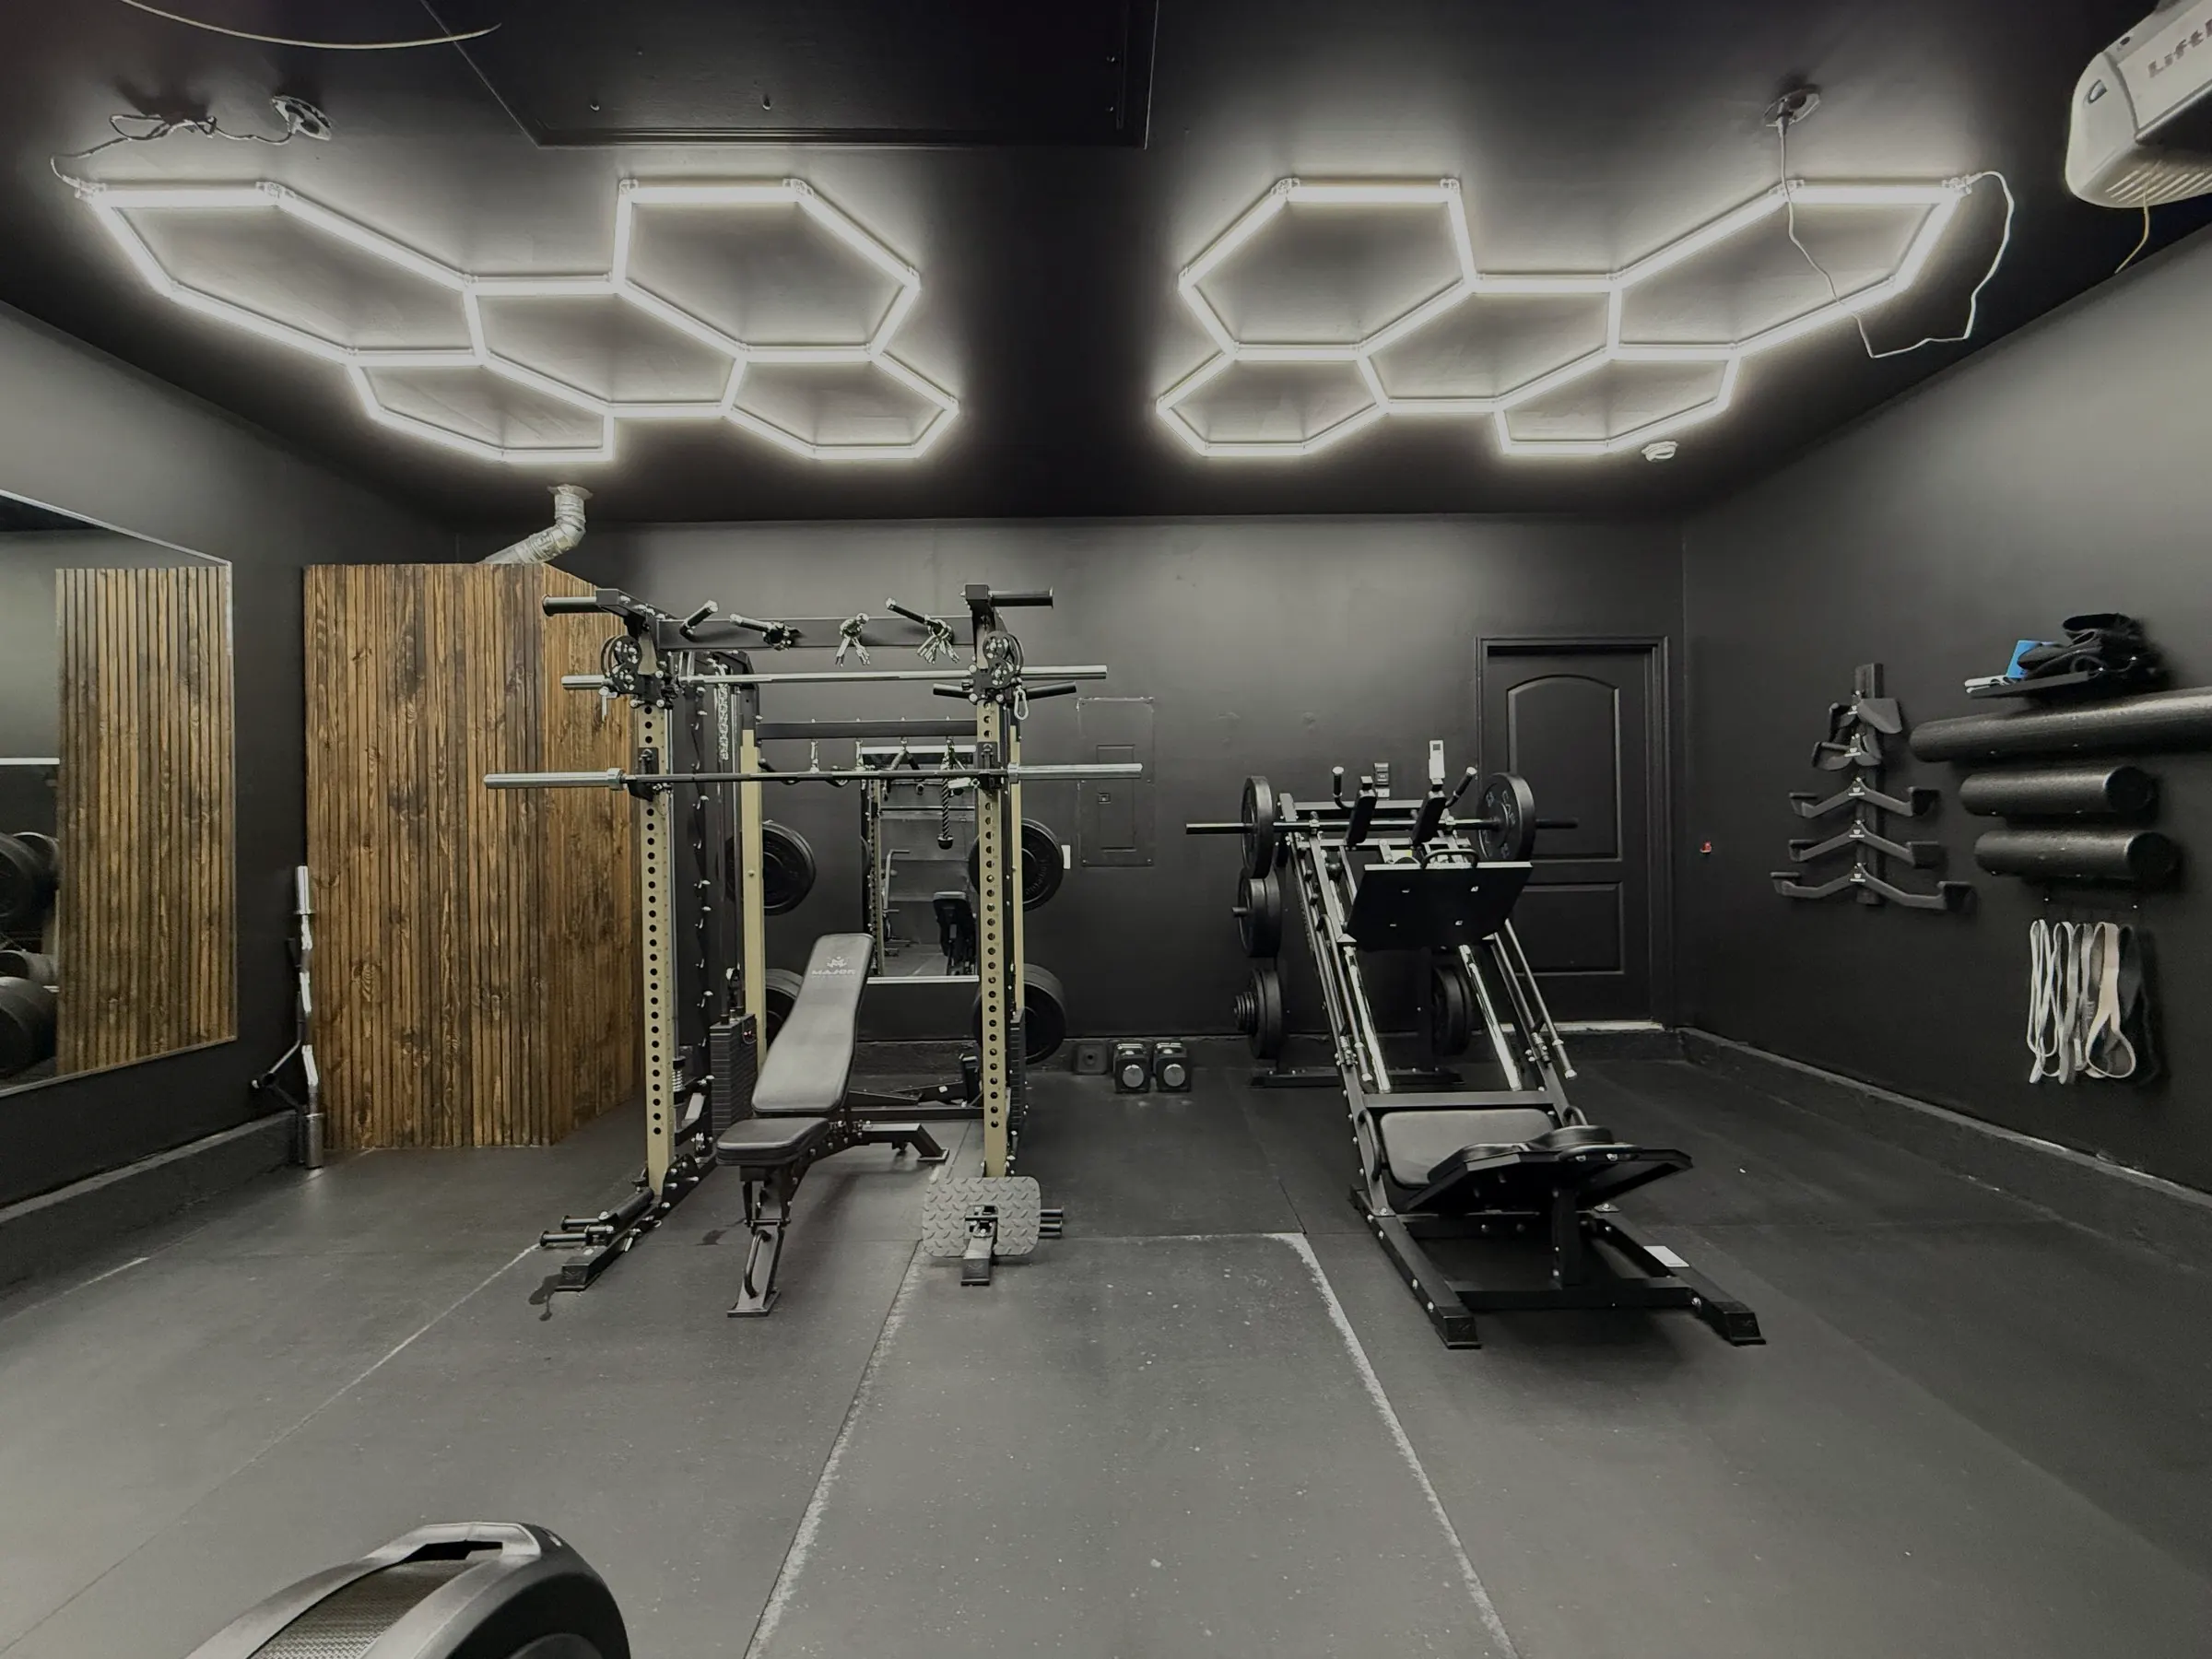
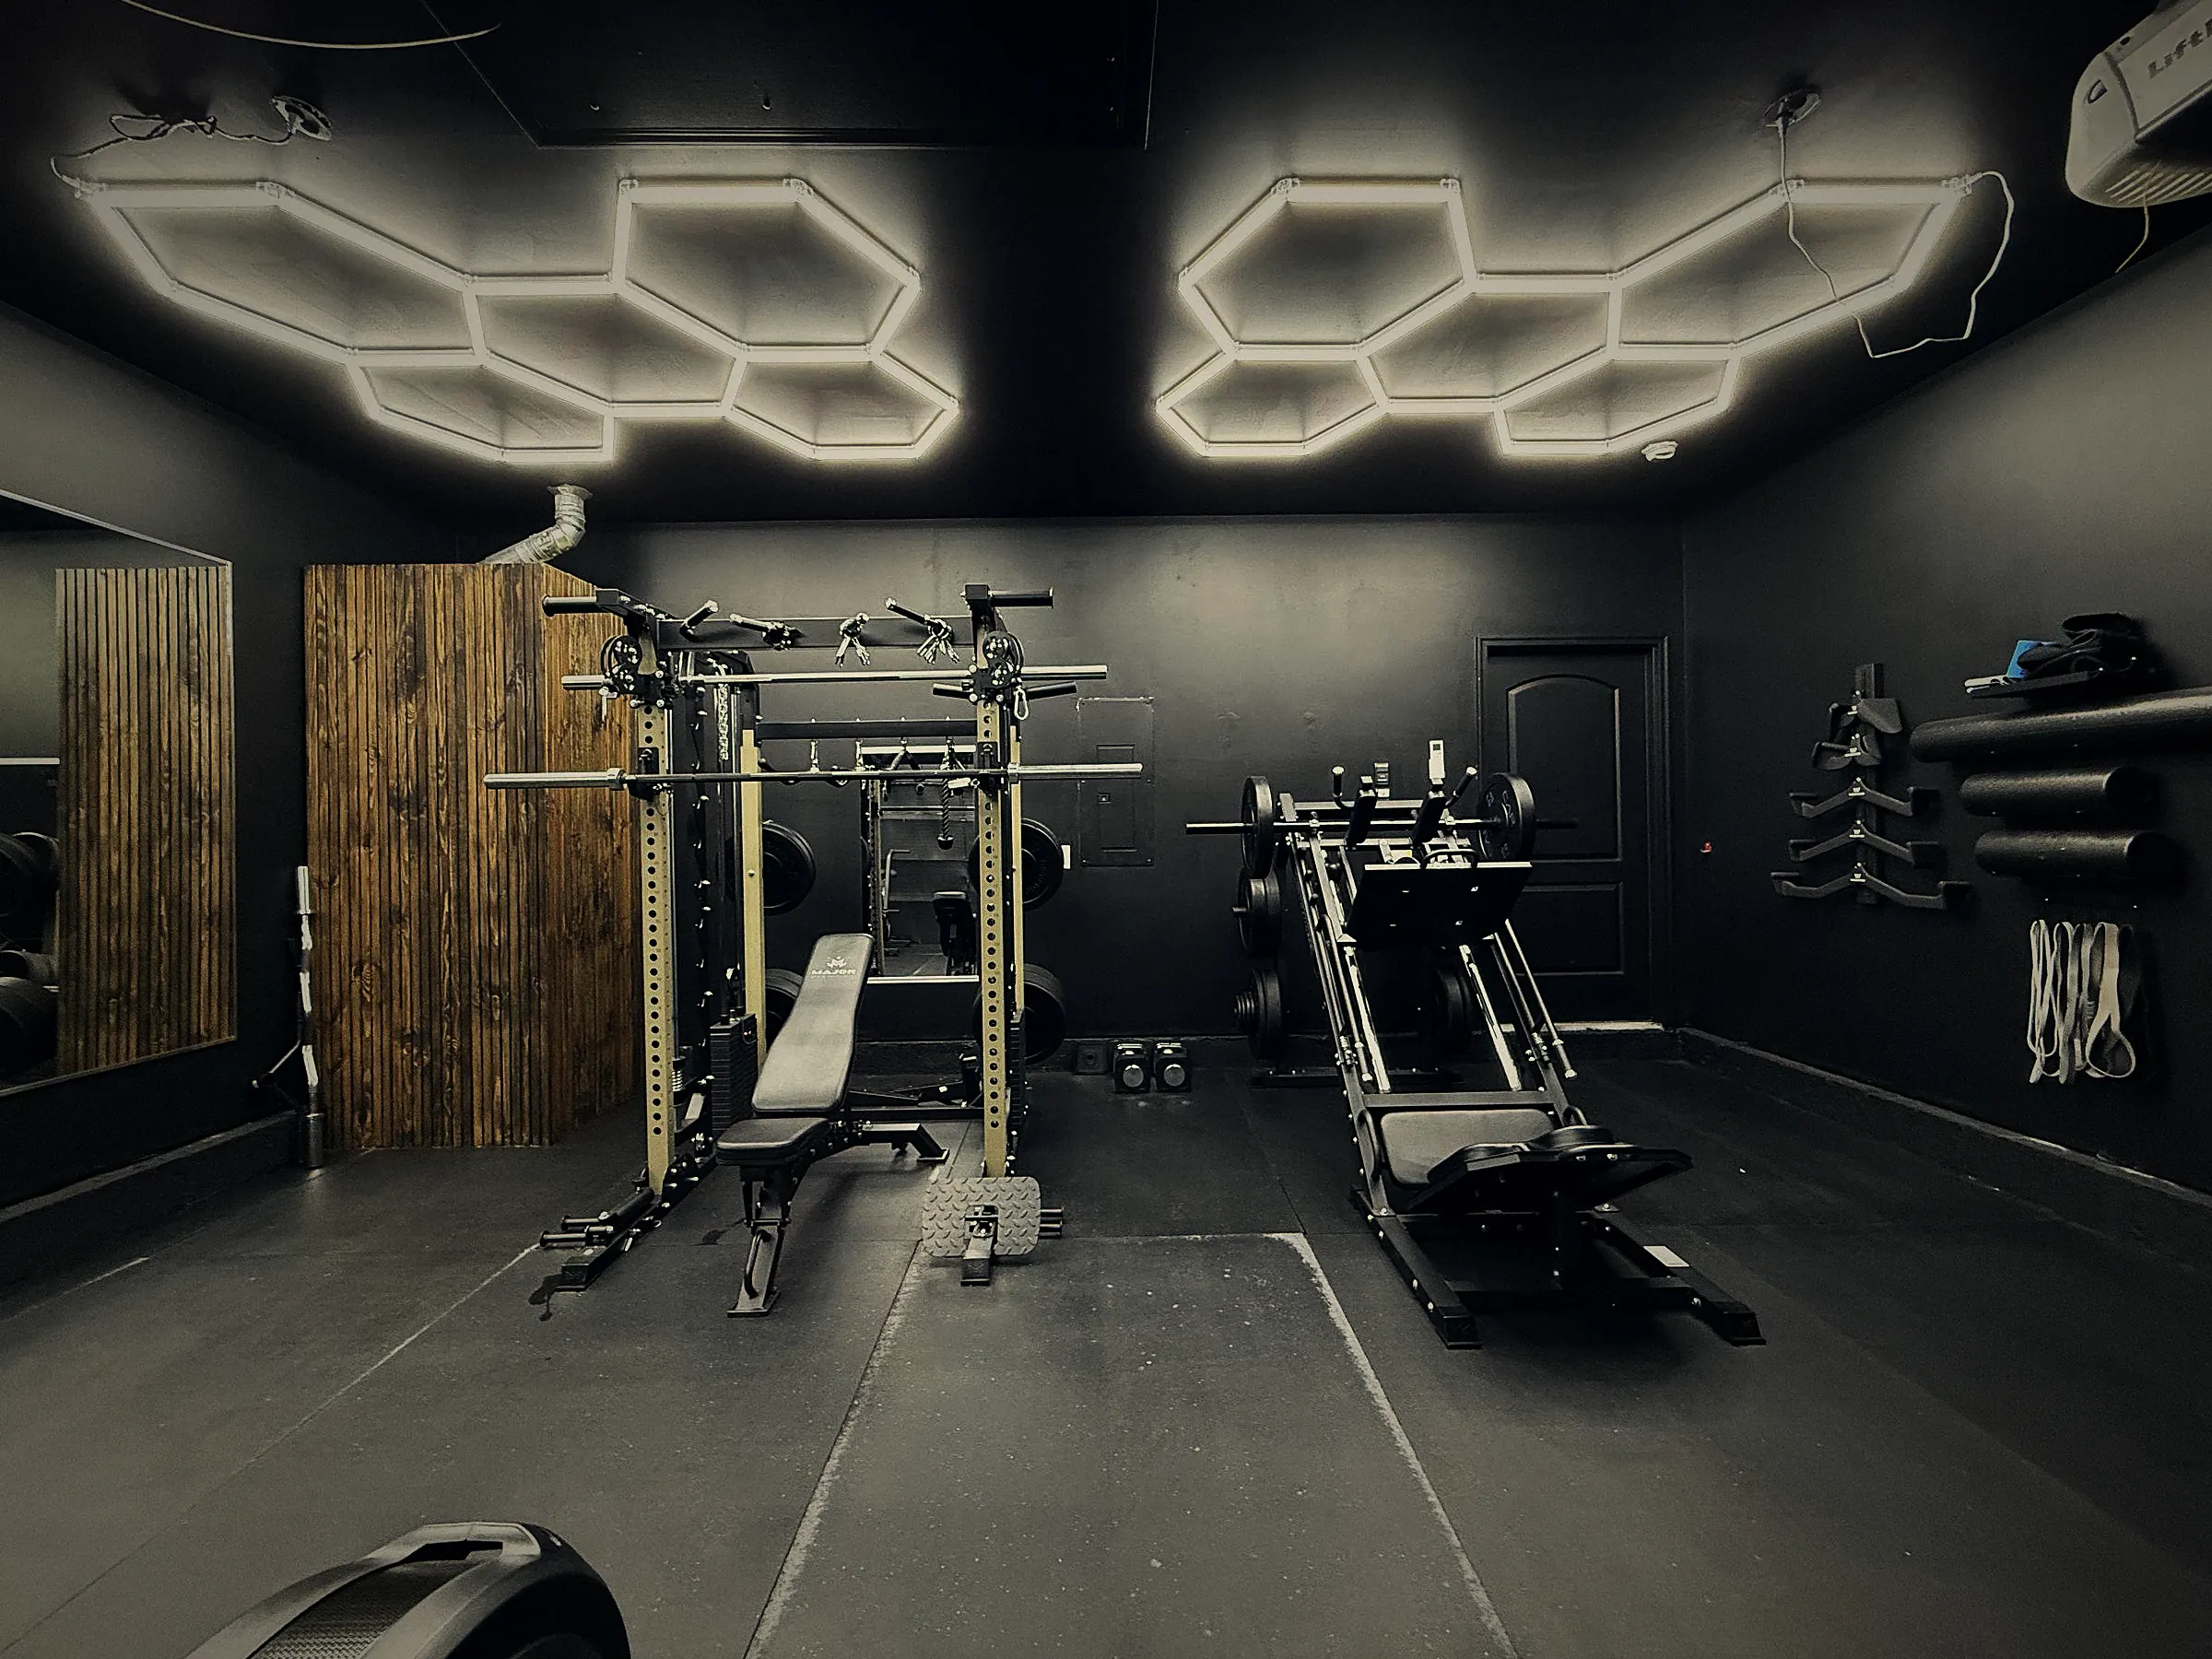
Premium cinematic grade on hero image
- Crushed blacks + S-curve contrast for editorial depth
- Warm gold tint biased to highlights (hex LEDs now read as champagne gold)
- Cool shadows for subtle split-tone
- Radial vignette to focus the frame
- Subtle film grain + unsharp mask
- CSS overlay gets a gold light-leak from top and softer mid-tones to complement the new grade
- Cache bump to v=4

https://claude.ai/code/session_018qT1uPpPj6xeFRp2S1bCbx

diff --git a/css/styles.css b/css/styles.css
@@ -1529,12 +1529,17 @@ html {
         inset 0 0 20px rgba(201,169,78,0.03);
 }
 
-/* Hero overlay - more cinematic */
+/* Hero overlay - cinematic editorial grade */
 .hero__overlay {
     background:
-        radial-gradient(ellipse at 50% 35%, rgba(201,169,78,0.06) 0%, transparent 55%),
-        radial-gradient(ellipse at 50% 100%, rgba(0,0,0,0.6) 0%, transparent 70%),
-        linear-gradient(to bottom, rgba(5,5,5,0.55) 0%, rgba(5,5,5,0.3) 35%, rgba(5,5,5,0.85) 100%);
+        /* gold light leak spilling down from center-top */
+        radial-gradient(ellipse 70% 50% at 50% 0%, rgba(201,169,78,0.14) 0%, rgba(201,169,78,0.04) 35%, transparent 65%),
+        /* soft golden bloom around hero title */
+        radial-gradient(ellipse 50% 35% at 50% 45%, rgba(232,212,139,0.05) 0%, transparent 70%),
+        /* deeper vignette pulling corners in */
+        radial-gradient(ellipse 110% 90% at 50% 50%, transparent 40%, rgba(0,0,0,0.55) 100%),
+        /* bottom shadow for footer copy + dark to ground the image */
+        linear-gradient(to bottom, rgba(5,5,5,0.25) 0%, rgba(5,5,5,0.15) 40%, rgba(5,5,5,0.85) 100%);
 }
 
 /* Hero badge - glossy */

diff --git a/index.html b/index.html
@@ -48,7 +48,7 @@
     <!-- Preload critical assets -->
     <link rel="preload" href="images/hero-bg.webp" as="image" type="image/webp">
     <link rel="preload" href="images/owner-portrait.webp" as="image" type="image/webp">
-    <link rel="preload" href="css/styles.css?v=3" as="style">
+    <link rel="preload" href="css/styles.css?v=4" as="style">
 
     <!-- Fonts -->
     <link rel="preconnect" href="https://fonts.googleapis.com">
@@ -56,7 +56,7 @@
     <link href="https://fonts.googleapis.com/css2?family=Barlow+Condensed:wght@400;500;600;700;800&family=Inter:wght@300;400;500;600;700&family=Cormorant+Garamond:ital,wght@0,400;0,500;0,600;0,700;1,400;1,500&family=DM+Sans:ital,wght@0,300;0,400;0,500;0,600;0,700;1,400&display=swap" rel="stylesheet">
 
     <!-- Styles -->
-    <link rel="stylesheet" href="css/styles.css?v=3">
+    <link rel="stylesheet" href="css/styles.css?v=4">
 
     <!-- Structured data -->
     <script type="application/ld+json">